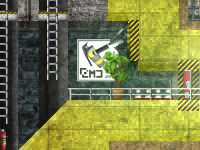
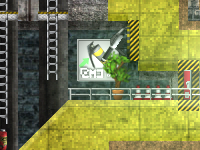
* Neue Bildschirmanimation in Szenarien eingefügt. * Titelbild aktualisiert.

diff --git a/ModernCombatFINALTRY.c4f/CMC_BabelTower.c4s/Script.c b/ModernCombatFINALTRY.c4f/CMC_BabelTower.c4s/Script.c
@@ -530,10 +530,8 @@ func CreateDecoration()
   CreateObject(SCA2, 585, 810, -1)->SetAction("News");
   CreateObject(SCR3, 530, 840, -1);
   CreateObject(SCR3, 640, 840, -1)->SetPhase(10);
-  CreateObject(SCA1, 585, 1490, -1)->SetAction("Grenade");
-  var screen = CreateObject(SCA1, 585, 1530, -1);
-  screen->SetAction("Grenade");
-  screen->SetPhase(20);
+  CreateObject(SCA1, 585, 1490, -1)->SetAction("CMC");
+  CreateObject(SCA1, 585, 1530, -1)->SetAction("Grenade");
   CreateObject(SCR3, 530, 1905, -1)->SetClrModulation(RGB(255,0,0));
   CreateObject(SCR3, 640, 1905, -1)->SetClrModulation(RGB(00,150,250));
 

diff --git a/ModernCombatFINALTRY.c4f/CMC_FusionReactor.c4s/Script.c b/ModernCombatFINALTRY.c4f/CMC_FusionReactor.c4s/Script.c
@@ -404,7 +404,7 @@ func CreateDecoration()
 
   //Bildschirme
   CreateObject(SCA1, 380, 860, -1)->SetAction("Medic");
-  CreateObject(SCA1, 435, 290, -1)->SetAction("Grenade");
+  CreateObject(SCA1, 435, 290, -1)->SetAction("CMC");
   CreateObject(SCR3, 790, 230, -1);
   CreateObject(SCR3, 790, 910, -1);
   CreateObject(SCA2, 595, 315, -1)->SetAction("Clonk");
